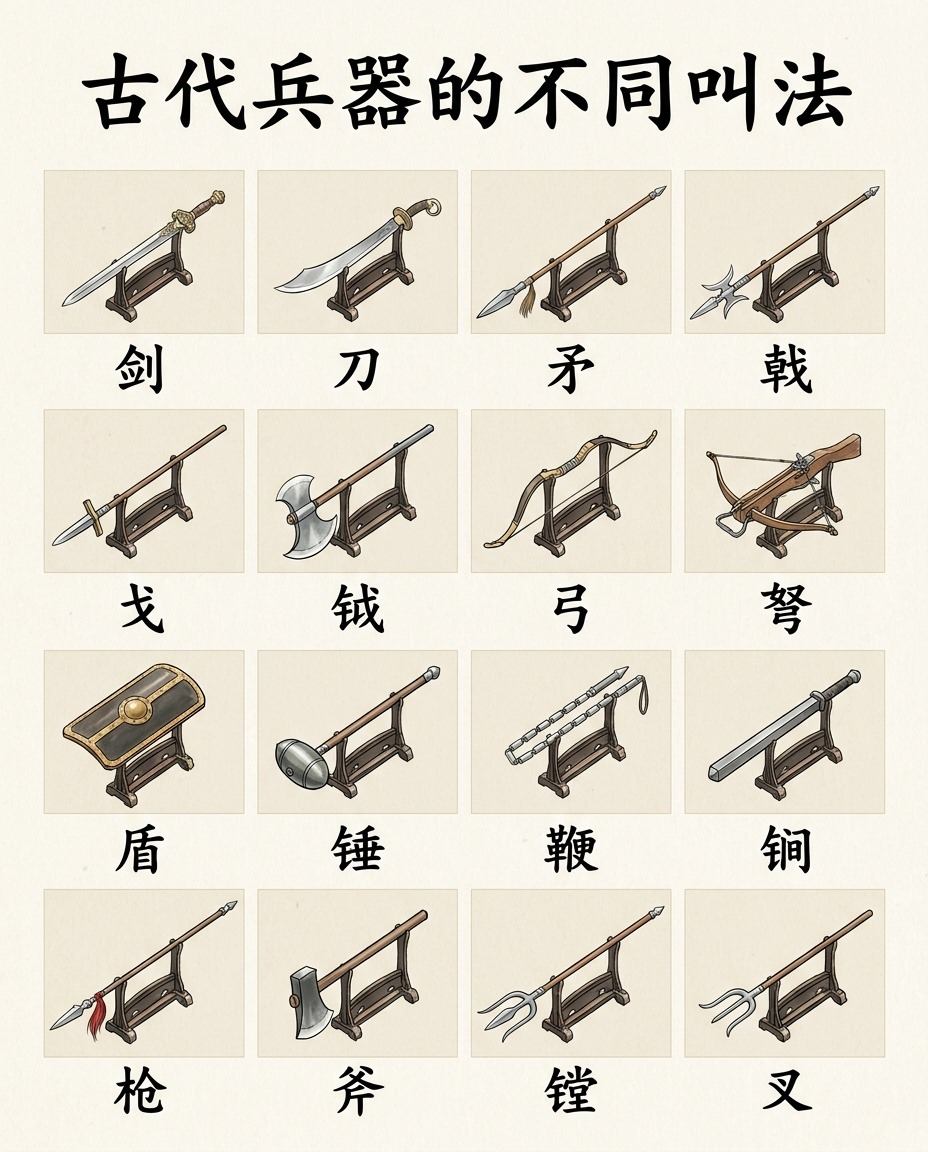
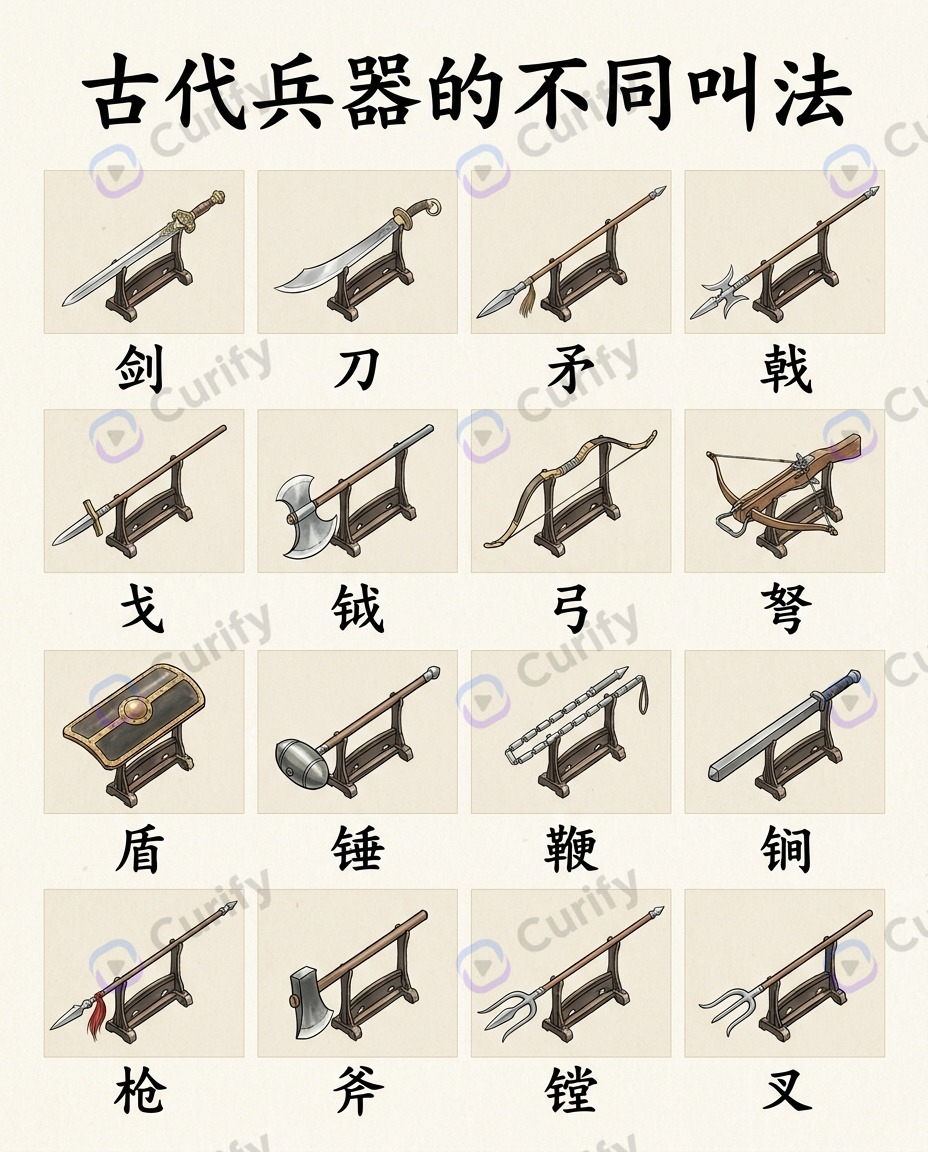
smm(culture): watermark the 10 taxonomy grids
Applied scripts/lib/watermark.cjs -> applyTiledWatermark with its defaults
(tiled Curify logo, slanted -30 degrees, 0.15 opacity) to all ten sheets.
Verified at 300% crop that the tiles render diagonally as intended.

Clean unwatermarked masters remain recoverable from commit a37a93a.

diff --git a/smm_daily/2026-08-21-culture-taxonomy-grids/captions_culture_grids.md b/smm_daily/2026-08-21-culture-taxonomy-grids/captions_culture_grids.md
@@ -73,5 +73,9 @@ it.** Either choose a commoner synonym or composite the label in afterwards with
 Also: asking for 「{title}」 put literal corner brackets in the rendered title. Say
 "no quotation marks or brackets" explicitly.
 
+**Watermarked** with `curify-frontend/scripts/lib/watermark.cjs` -> `applyTiledWatermark`
+(tiled Curify logo, slanted -30 degrees, 0.15 opacity). Clean unwatermarked masters are
+recoverable from git commit a37a93a if a version without the mark is ever needed.
+
 Images are 928x1152 (4:5 portrait) — works for Facebook and is close enough to Pinterest's
 2:3 to be usable there too.
